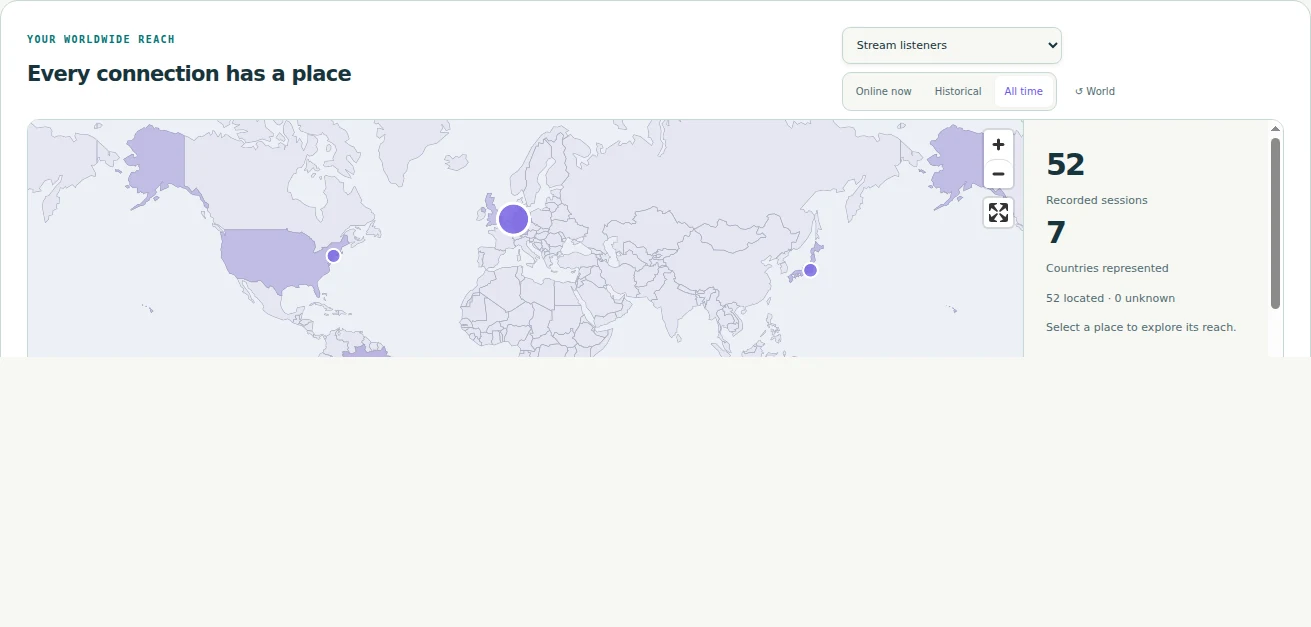
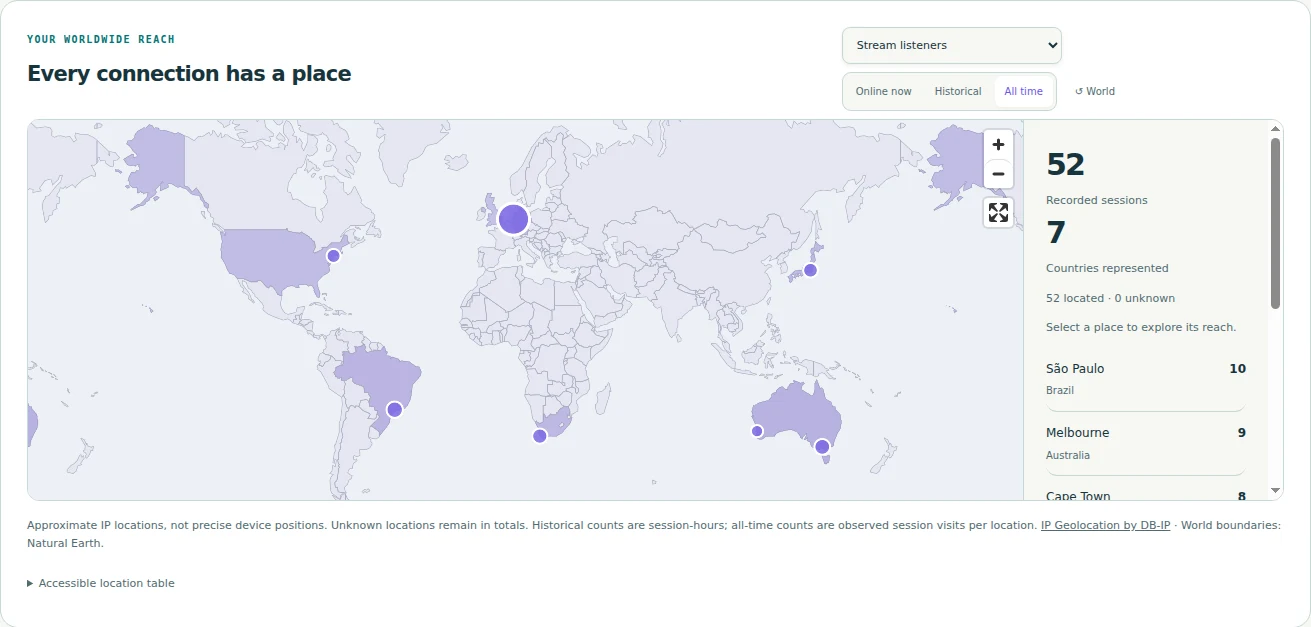
Show complete homepage map screenshots in both appearances

diff --git a/app/templates/_product_screen.html b/app/templates/_product_screen.html
@@ -1,15 +1,15 @@
-{% macro screen(name, title, caption, priority=false, wide=false) %}
+{% macro screen(name, title, caption, priority=false, wide=false, version=none) %}
 {% set day=screens[name].day %}{% set night=screens[name].night %}
 {% set day_width=day.sizes[-2] if day.sizes|length > 2 else day.sizes[-1] %}
 {% set night_width=night.sizes[-2] if night.sizes|length > 2 else night.sizes[-1] %}
 <figure class="project-screen{% if wide %} project-screen-wide{% endif %}">
-  <a class="project-screen-link" href="{{ url_for('static',filename='product/' ~ name ~ '-day-' ~ day.width ~ '.webp') }}" data-product-screen="{{ name }}" data-title="{{ title }}" data-caption="{{ caption }}" data-full-day="{{ url_for('static',filename='product/' ~ name ~ '-day-' ~ day.width ~ '.webp') }}" data-full-night="{{ url_for('static',filename='product/' ~ name ~ '-night-' ~ night.width ~ '.webp') }}" aria-label="View screen: {{ title }}">
-    <img src="{{ url_for('static',filename='product/' ~ name ~ '-day-' ~ day_width ~ '.webp') }}"
-      srcset="{% for width in day.sizes %}{{ url_for('static',filename='product/' ~ name ~ '-day-' ~ width ~ '.webp') }} {{ width }}w{{ ', ' if not loop.last }}{% endfor %}"
+  <a class="project-screen-link" href="{{ url_for('static',filename='product/' ~ name ~ '-day-' ~ day.width ~ '.webp',v=version) }}" data-product-screen="{{ name }}" data-title="{{ title }}" data-caption="{{ caption }}" data-full-day="{{ url_for('static',filename='product/' ~ name ~ '-day-' ~ day.width ~ '.webp',v=version) }}" data-full-night="{{ url_for('static',filename='product/' ~ name ~ '-night-' ~ night.width ~ '.webp',v=version) }}" aria-label="View screen: {{ title }}">
+    <img src="{{ url_for('static',filename='product/' ~ name ~ '-day-' ~ day_width ~ '.webp',v=version) }}"
+      srcset="{% for width in day.sizes %}{{ url_for('static',filename='product/' ~ name ~ '-day-' ~ width ~ '.webp',v=version) }} {{ width }}w{{ ', ' if not loop.last }}{% endfor %}"
       sizes="{% if name=='player-mobile' %}260px{% elif priority %}(max-width: 760px) 90vw, (max-width: 1100px) 65vw, 590px{% elif wide %}(max-width: 1360px) 92vw, 1250px{% else %}(max-width: 760px) 92vw, (max-width: 1100px) 80vw, 720px{% endif %}"
-      data-day="{{ url_for('static',filename='product/' ~ name ~ '-day-' ~ day_width ~ '.webp') }}" data-night="{{ url_for('static',filename='product/' ~ name ~ '-night-' ~ night_width ~ '.webp') }}"
-      data-srcset-day="{% for width in day.sizes %}{{ url_for('static',filename='product/' ~ name ~ '-day-' ~ width ~ '.webp') }} {{ width }}w{{ ', ' if not loop.last }}{% endfor %}"
-      data-srcset-night="{% for width in night.sizes %}{{ url_for('static',filename='product/' ~ name ~ '-night-' ~ width ~ '.webp') }} {{ width }}w{{ ', ' if not loop.last }}{% endfor %}"
+      data-day="{{ url_for('static',filename='product/' ~ name ~ '-day-' ~ day_width ~ '.webp',v=version) }}" data-night="{{ url_for('static',filename='product/' ~ name ~ '-night-' ~ night_width ~ '.webp',v=version) }}"
+      data-srcset-day="{% for width in day.sizes %}{{ url_for('static',filename='product/' ~ name ~ '-day-' ~ width ~ '.webp',v=version) }} {{ width }}w{{ ', ' if not loop.last }}{% endfor %}"
+      data-srcset-night="{% for width in night.sizes %}{{ url_for('static',filename='product/' ~ name ~ '-night-' ~ width ~ '.webp',v=version) }} {{ width }}w{{ ', ' if not loop.last }}{% endfor %}"
       alt="{{ title }} — {{ caption }}" width="{{ day.width }}" height="{{ day.height }}" decoding="async" {% if priority %}fetchpriority="high"{% else %}loading="lazy"{% endif %}>
     <span class="project-expand" aria-hidden="true">View screen ↗</span>
   </a>

diff --git a/app/templates/home.html b/app/templates/home.html
@@ -10,7 +10,7 @@
 <meta property="og:type" content="website">
 {% if project_url %}<link rel="canonical" href="{{ project_url }}/"><meta property="og:url" content="{{ project_url }}/"><meta property="og:image" content="{{ project_url }}{{ url_for('static',filename='product/booth-night-' ~ screens.booth.night.width ~ '.webp') }}">{% endif %}
 <meta name="twitter:card" content="summary_large_image">
-<link rel="stylesheet" href="{{ url_for('static',filename='home.css',v='20260917-1') }}">
+<link rel="stylesheet" href="{{ url_for('static',filename='home.css',v='20260917-2') }}">
 {% endblock %}
 {% block header %}
 <header class="project-header">
@@ -92,7 +92,7 @@
 <section id="statistics" class="project-section project-wrap">
   <div class="project-section-heading"><div><p class="project-label">04 / Your sound, in numbers</p><h2>Know what plays.<br><em>See what connects.</em></h2></div><p>Go beyond a listener counter. Explore your audience, music, feedback, resources and broadcast reliability, across one channel or the whole installation.</p></div>
   <div class="project-stats-grid">{{ screen('statistics', 'Your station, in perspective', 'Audience, confirmed plays and listener preferences. Demonstration data.') }}<div class="project-stats-copy"><article><span class="project-small-label">AUDIENCE & REACH</span><h3>A world around your station.</h3><p>Follow current, average and peak connections, listener-hours and approximate geography. Keep stream listeners separate from player-page visitors.</p></article><article><span class="project-small-label">MUSIC & ENGAGEMENT</span><h3>Find the songs that resonate.</h3><p>See confirmed song and artist plays, likes, dislikes and approval. Compare periods and take the data with you as CSV.</p></article><article><span class="project-small-label">RESOURCES & RELIABILITY</span><h3>Keep the bigger picture in view.</h3><p>Track stream transfer, storage, mount availability, low audio levels and broadcast outcomes. Missing observations stay visible as gaps.</p></article></div></div>
-  {{ screen('geography', 'Every connection has a place', 'A locally rendered map of approximate locations. Demonstration data; connections are not unique people.', wide=true) }}
+  {{ screen('geography', 'Every connection has a place', 'A locally rendered map of approximate locations. Demonstration data; connections are not unique people.', wide=true, version='20260917-2') }}
   <div class="project-inline-note"><span class="project-small-label">LOCAL BY DESIGN</span><p>Analytics uses a local geographic database and locally served maps. Raw listener addresses and user agents are not stored in analytics.</p><a href="{{ docs }}statistics.md">Understand the numbers ↗</a></div>
 </section>
 

diff --git a/app/static/home.css b/app/static/home.css
@@ -120,7 +120,6 @@
 .project-home .project-stats-copy h3 {font-size:25px}
 .project-home .project-stats-copy p {font-size:14px;margin:0}
 .project-home .project-stats-copy .project-small-label {margin-bottom:12px}
-.project-home .project-screen-wide .project-screen-link {max-height:570px}
 .project-home .project-listener-layout {display:grid;grid-template-columns:.85fr 1.3fr;gap:65px;align-items:center}
 .project-home .project-listener-copy>p:not(.project-label):not(.project-body-large) {font-size:14px}
 .project-home .project-listener-copy .project-body-large {font-size:19px}
@@ -297,7 +296,6 @@
   .project-home .project-cart-feature {margin-top:45px}
   .project-home .project-stats-copy article+article {padding-top:22px;margin-top:22px}
   .project-home .project-stats-copy p {font-size:14px}
-  .project-home .project-screen-wide .project-screen-link {max-height:none}
   .project-home .project-listener-layout {gap:40px}
   .project-home .project-player-display {padding:0 35px 205px 0;max-width:540px;margin-inline:auto;width:100%}
   .project-home .project-phone {width:175px;border-width:5px;border-radius:22px}

diff --git a/scripts/capture-homepage.py b/scripts/capture-homepage.py
@@ -189,7 +189,7 @@ def demo_app(directory):
     return app, identifiers
 
 
-def capture(output, masters):
+def capture(output, masters, screens=None):
     from selenium import webdriver
     from selenium.webdriver.chrome.options import Options
     from selenium.webdriver.chrome.service import Service
@@ -218,20 +218,28 @@ def capture(output, masters):
             driver.execute_async_script('document.fonts.ready.then(arguments[0])')
 
         def shot(name, selector=None, max_height=None):
+            if screens is not None and name not in screens:
+                return
             for theme in ('day', 'night'):
                 driver.find_element(By.CSS_SELECTOR, f'[data-appearance={theme}]').click()
                 driver.execute_script('window.scrollTo(0,0)')
                 time.sleep(.35)
                 target = driver.find_element(By.CSS_SELECTOR, selector) if selector else None
                 if target:
-                    # Capture the real element via CDP, without sticky chrome covering it.
+                    # Keep canvases visible while capturing, with room for sticky navigation.
+                    driver.execute_script('window.scrollTo(0, Math.max(0, arguments[0].getBoundingClientRect().top + scrollY - 240))', target)
+                    time.sleep(.5)
+                    # Capture from the visible viewport to preserve WebGL rendering.
                     rect = driver.execute_script('const r=arguments[0].getBoundingClientRect();return {x:r.left+scrollX,y:r.top+scrollY,width:r.width,height:r.height}', target)
                     if max_height: rect['height'] = min(rect['height'], max_height)
+                    if not driver.execute_script('return arguments[0].y >= scrollY && arguments[0].y + arguments[0].height <= scrollY + innerHeight', rect):
+                        raise RuntimeError(f'{name} does not fit in the capture viewport')
                     import base64
                     raw = base64.b64decode(driver.execute_cdp_cmd('Page.captureScreenshot', dict(format='png', captureBeyondViewport=False,
                         clip=dict(rect, scale=1)))['data'])
                 else:
                     raw = driver.get_screenshot_as_png()
+                driver.execute_script('window.scrollTo(0,0)')
                 stem = f'{name}-{theme}'
                 (masters / (stem + '.png')).write_bytes(raw)
                 image_width, image_height = struct.unpack('>II', raw[16:24])
